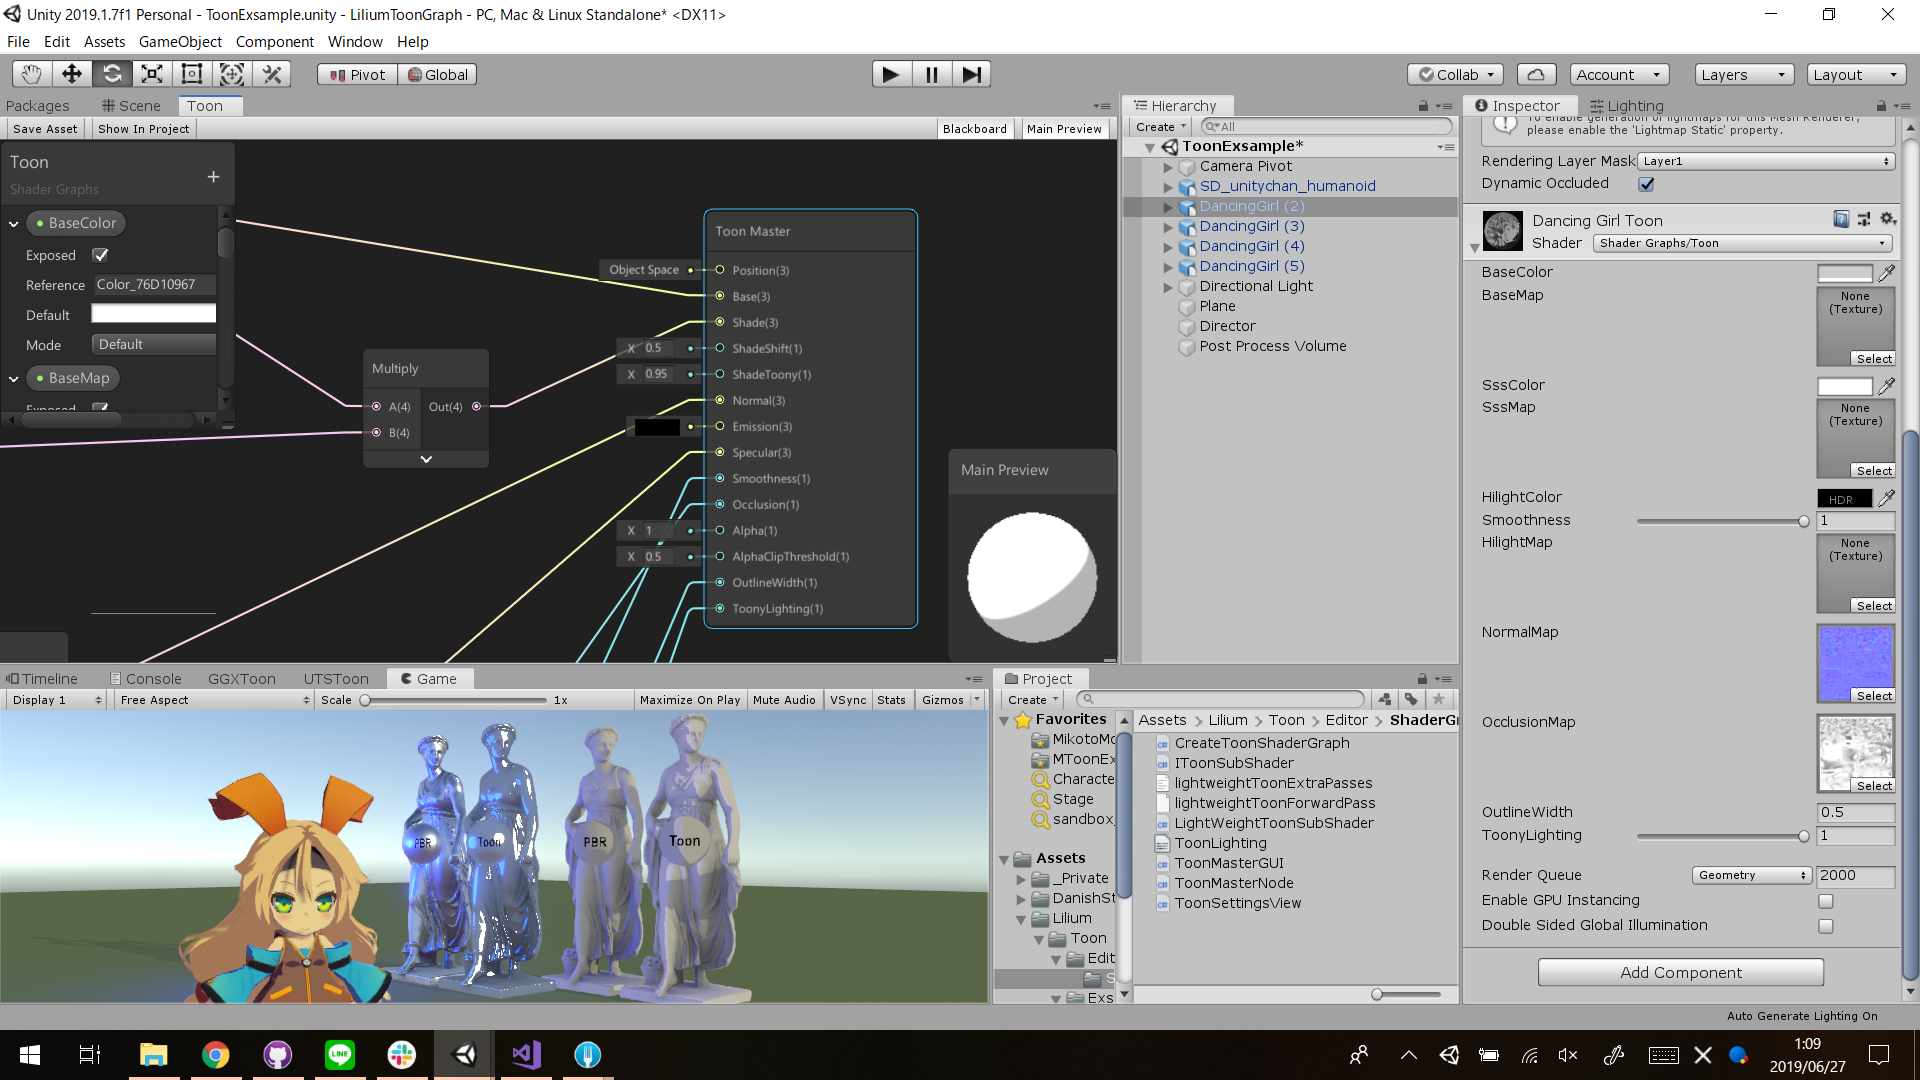
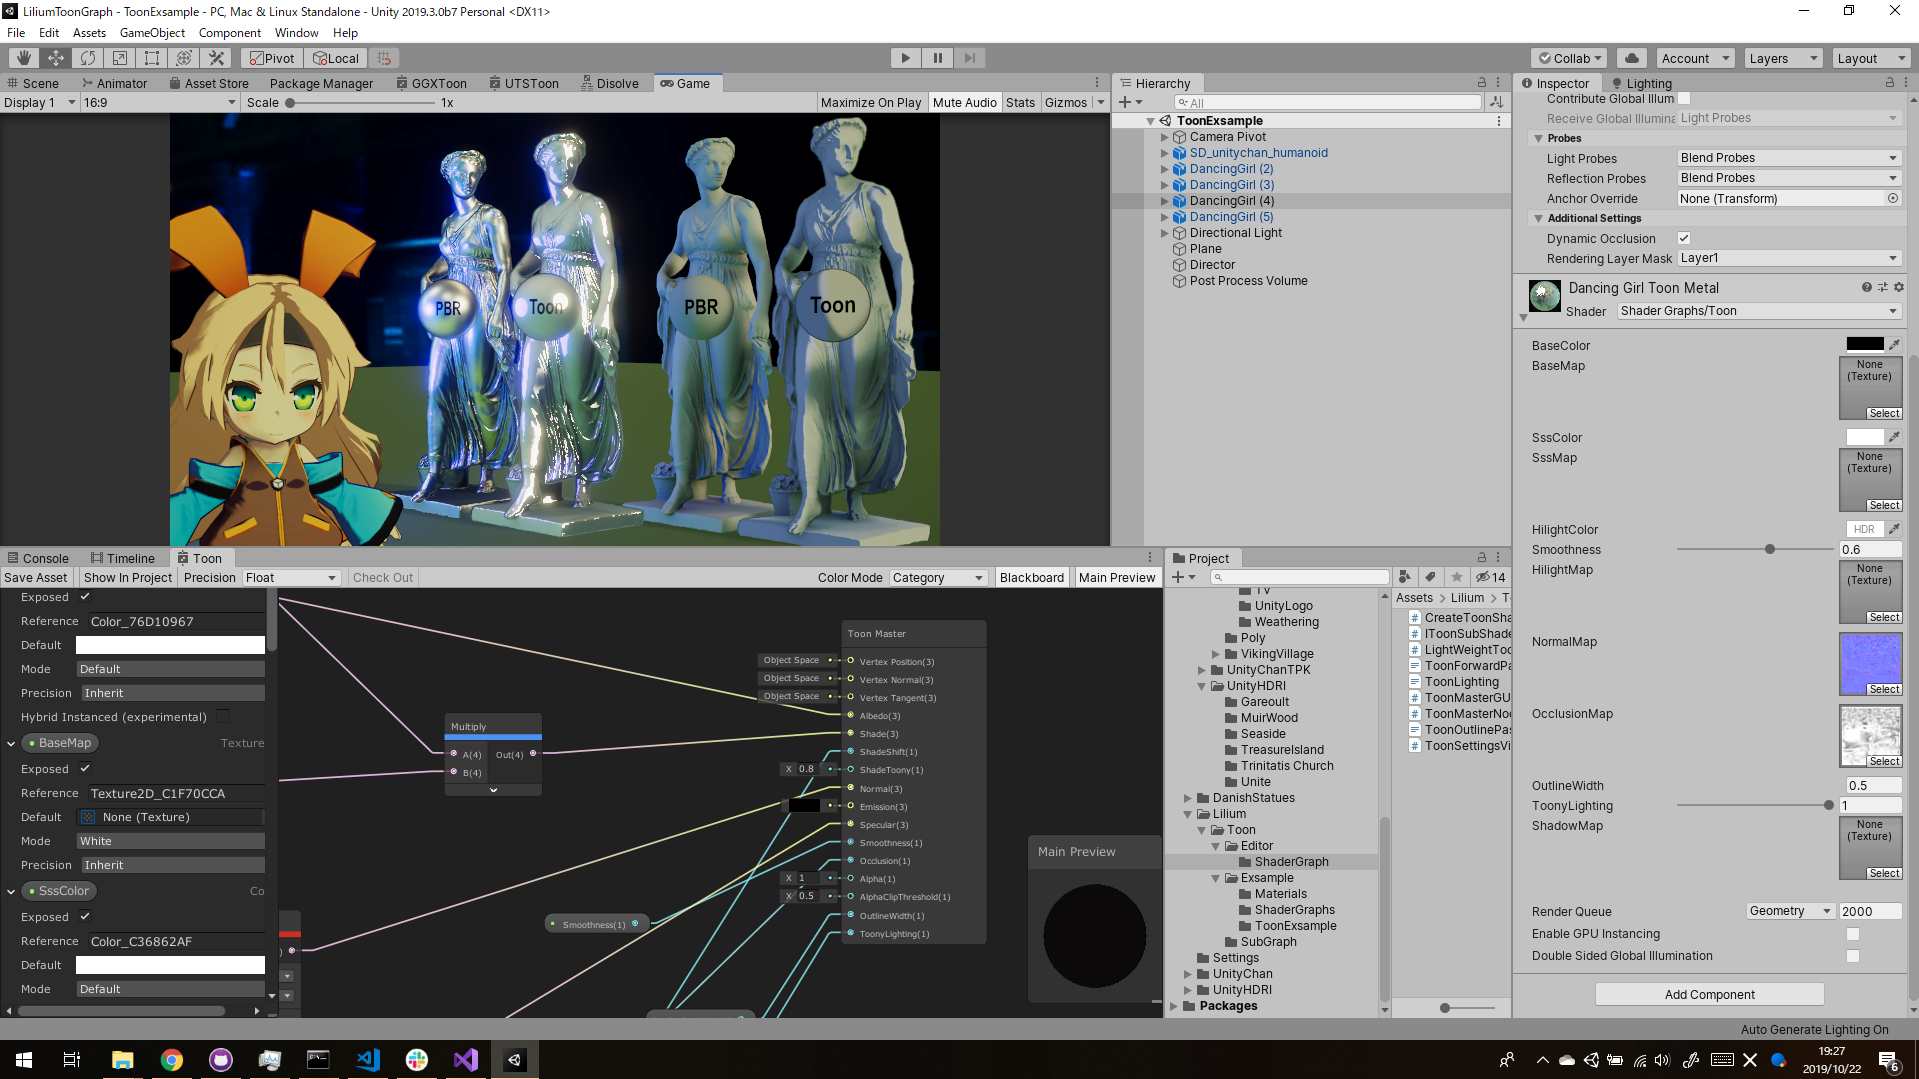
Update documents

diff --git a/Assets/Lilium/Toon/Editor/ShaderGraph/IToonSubShader.cs b/Assets/Lilium/Toon/Editor/ShaderGraph/IToonSubShader.cs
@@ -1,5 +1,5 @@
 //
-// based on: com.unity.shadergraph@5.6.1\Editor\Data\MasterNodes\IPBRSubShader.cs
+// based on: com.unity.shadergraph@7.1.2\Editor\Data\MasterNodes\IPBRShader.cs
 //
 using System;
 using UnityEditor.ShaderGraph;

diff --git a/Assets/Lilium/Toon/Editor/ShaderGraph/ToonSettingsView.cs b/Assets/Lilium/Toon/Editor/ShaderGraph/ToonSettingsView.cs
@@ -1,3 +1,6 @@
+//
+// based on: Packages\com.unity.shadergraph@7.1.2\Editor\Drawing\Views\PBRSettingsView.cs
+//
 using System;
 using System.Collections;
 using System.Collections.Generic;

diff --git a/Assets/Lilium/Toon/Editor/ShaderGraph/ToonMasterNode.cs b/Assets/Lilium/Toon/Editor/ShaderGraph/ToonMasterNode.cs
@@ -1,3 +1,6 @@
+//
+// based on: com.unity.shadergraph@7.1.2\Editor\Data\MasterNodes\PBRMasterNode.cs
+//
 using System;
 using System.Linq;
 using System.Collections.Generic;

diff --git a/Assets/Lilium/Toon/Editor/ShaderGraph/ToonMasterGUI.cs b/Assets/Lilium/Toon/Editor/ShaderGraph/ToonMasterGUI.cs
@@ -1,7 +1,6 @@
 //
 // based on: com.unity.shadergraph@7.1.2\Editor\PBRMasterGUI.cs
 //
-
 using System;
 using UnityEngine;
 using UnityEditor;

diff --git a/README.md b/README.md
@@ -2,11 +2,10 @@
 
 トゥーンシェーダーでもシェーダーグラフを使いたい！
 
-+ LWRP 専用トゥーンシェーダーです。
++ URP対応トゥーンシェーダーです。
 + 表現の実験中。
-+ ShaderGraphパッケージ内のInternalクラスを利用します。前方互換性は低いと思われます。
++ ShaderGraphパッケージ及びUniversalRPパッケージ内のInternalクラスを利用します。前方互換性はほとんどないと思われます。
 + PBRマスターノードを改造する形で開発しました。まだ無駄なコードが残っています。
-+ HDRP 対応もできたらいいな。
 + カスタムマスターノードのサンプルにどうぞ。ソースファイルの　`Toon` を `PBR` に変換してパッケージ内を検索すると元になったソースファイルが見つかります。Wikiの方にも書いています。 https://github.com/you-ri/LiliumToonGraph/wiki
 
 ![](https://github.com/you-ri/LiliumToonGraph/blob/master/Docs/screenshot.png?raw=true)
@@ -14,17 +13,16 @@
 
 ## System requirements
 
-+ Unity 2019.1.9f1
-+ Windows: Direct3D 11 support
++ Unity 2019.3.0b7
 
 ## How to use
 
 ### Exsample Scene
 Assets/Lilium/Toon/Exsample/ToonExsample.unity
 
-### Create toon shader graph
-1. Projectウインドウで右クリック
-2. Create > Shader > Toon Graph を選択
+### Toon shader graph
+1. Right click in the project window.
+2. Select `Create > Shader > Toon Graph`
 
 ## Licenses
 
